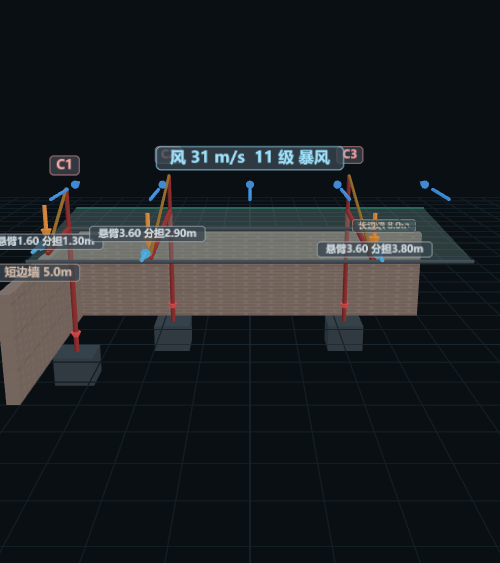
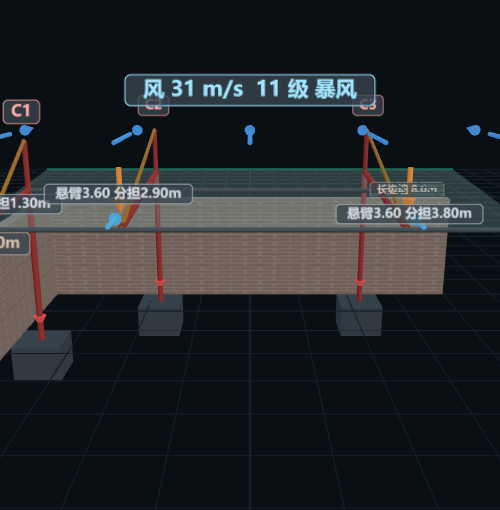
apks: 更新 tools/canopy-struct
Auto-synced by apk-github-sync at 2026-10-19 09:01:47

- apks/README.md
- apks/index.json
- apks/tools/canopy-struct/meta.json
- apks/tools/canopy-struct/src/assets/style.css
- apks/tools/canopy-struct/src/assets/view3d.js
- apks/tools/canopy-struct/src/tools/dbg3.js
- "apks/tools/canopy-struct/src/\346\210\252\345\233\276/A-1-\351\231\242\345\255\220\347\234\213\344\270\273\346\245\274.png"
- "apks/tools/canopy-struct/src/\346\210\252\345\233\276/A-2-\344\273\216\344\270\213\345\276\200\344\270\212\347\234\213.png"
- "apks/tools/canopy-struct/src/\346\210\252\345\233\276/A-3-\344\277\257\350\247\206.png"
- "apks/tools/canopy-struct/src/\346\210\252\345\233\276/A-4-\344\276\247\345\211\226.png"
- "apks/tools/canopy-struct/src/\346\210\252\345\233\276/blender-A.png"
- "apks/tools/canopy-struct/src/\346\210\252\345\233\276/gl-\344\276\247\350\247\206.png"
- "apks/tools/canopy-struct/src/\346\210\252\345\233\276/gl-\344\277\257\350\247\206.png"
- "apks/tools/canopy-struct/src/\346\210\252\345\233\276/gl-\345\217\230\345\275\242\346\224\276\345\244\247100.png"
- "apks/tools/canopy-struct/src/\346\210\252\345\233\276/gl-\346\255\243\350\247\206.png"
- "apks/tools/canopy-struct/src/\346\210\252\345\233\276/gl-\351\273\230\350\256\244\350\247\206\350\247\222.png"

Changed region(s): [[0.0, 0.1176, 1.0, 0.7647], [0.93, 0.2353, 1.0, 0.2941]]

diff --git a/apks/tools/canopy-struct/src/assets/view3d.js b/apks/tools/canopy-struct/src/assets/view3d.js
@@ -102,9 +102,14 @@ const V3 = (function () {
 
   function resize() {
     if (!ok) return;
-    const w = host.clientWidth || 320, h = host.clientHeight || 300;
-    renderer.setSize(w, h, false);
-    camera.aspect = w / h; camera.updateProjectionMatrix();
+    const W = host.clientWidth || 320, H = host.clientHeight || 300;
+    // 竖屏时不要把画布拉成一根长条：限高 ≈ 1.02×宽，竖直居中
+    const h = Math.max(200, Math.min(H, W * 1.02));
+    canvas.style.width = W + 'px';
+    canvas.style.height = h + 'px';
+    canvas.style.top = Math.max(0, (H - h) / 2) + 'px';
+    renderer.setSize(W, h, false);
+    camera.aspect = W / h; camera.updateProjectionMatrix();
     draw();
   }
 
@@ -146,6 +151,19 @@ const V3 = (function () {
   function frontView() { cam = { az: 0.0001, pol: 1.30, dist: 11.5, tx: 4, ty: 1.4, tz: 2.0 }; draw(); }
   function endView() { cam = { az: 1.5708, pol: 1.35, dist: 11, tx: 1.2, ty: 1.4, tz: 2.0 }; draw(); }
 
+  function fitDist() {
+    // 用当前模型的实际包围球算"刚好装得下"的距离
+    let R = 6;
+    try {
+      const box = new THREE.Box3().setFromObject(scene);
+      const sph = box.getBoundingSphere(new THREE.Sphere());
+      R = Math.max(2.5, sph.radius);
+    } catch (e) { }
+    const halfY = camera.fov * Math.PI / 360;
+    const halfX = Math.atan(Math.tan(halfY) * Math.max(camera.aspect, 0.2));
+    const half = Math.min(halfY, halfX);
+    return R / Math.sin(half) * 0.92;
+  }
   function draw() {
     if (!ok) return;
     const t = new THREE.Vector3(cam.tx, cam.ty, cam.tz);
@@ -153,10 +171,10 @@ const V3 = (function () {
       t.x + cam.dist * Math.sin(cam.pol) * Math.sin(cam.az),
       t.y + cam.dist * Math.cos(cam.pol),
       t.z + cam.dist * Math.sin(cam.pol) * Math.cos(cam.az));
-    // 竖屏时把相机拉远一点，否则模型会顶出屏幕
-    const asp = (host.clientWidth || 1) / Math.max(1, host.clientHeight || 1);
-    const fitK = Math.max(1, Math.min(1.38, 1.18 / Math.max(asp, 0.34)));
-    camera.position.sub(t).multiplyScalar(fitK).add(t);
+    // 远程只有"不超过装得下的距离"时才拉远，绝不缩小到看不见
+    const fd = fitDist();
+    const d = Math.min(cam.dist, fd);
+    camera.position.sub(t).multiplyScalar(d / Math.max(cam.dist, 0.001)).add(t);
     camera.lookAt(t);
     renderer.render(scene, camera);
   }

diff --git a/apks/tools/canopy-struct/src/tools/dbg3.js b/apks/tools/canopy-struct/src/tools/dbg3.js
@@ -6,7 +6,7 @@ const sleep = ms => new Promise(r => setTimeout(r, ms));
 (async () => {
   const c = spawn(CHROME, ['--headless=new', `--remote-debugging-port=${PORT}`, '--no-sandbox',
     '--allow-file-access-from-files', '--no-first-run',
-    `--user-data-dir=${path.join(require('os').tmpdir(), 'csd' + Date.now())}`, '--window-size=420,860', url], { stdio: 'ignore' });
+    `--user-data-dir=${path.join(require('os').tmpdir(), 'csd' + Date.now())}`, '--window-size=400,880', url], { stdio: 'ignore' });
   let pg = null;
   for (let i = 0; i < 60; i++) { await sleep(250); try { pg = (JSON.parse(await get('/json/list')) || []).find(t => t.type === 'page' && t.webSocketDebuggerUrl); } catch (e) { } if (pg) break; }
   const ws = new WebSocket(pg.webSocketDebuggerUrl); let id = 0; const pend = {};

diff --git a/apks/tools/canopy-struct/src/assets/style.css b/apks/tools/canopy-struct/src/assets/style.css
@@ -105,7 +105,7 @@ td.num{text-align:right;font-variant-numeric:tabular-nums}
 tr.pick td{background:#10241F}
 
 /* ---------- 3D ---------- */
-#cv3{position:absolute;inset:0;width:100%;height:100%;display:block;touch-action:none}
+#cv3{position:absolute;left:0;top:0;width:100%;height:100%;display:block;touch-action:none}
 .ov{position:absolute;z-index:3;font-size:11px;color:var(--dim)}
 #hint3{position:absolute;left:9px;bottom:9px;background:rgba(11,16,20,.72);padding:4px 9px;
   border-radius:7px;border:1px solid var(--line);z-index:4}

diff --git a/apks/README.md b/apks/README.md
@@ -1,7 +1,7 @@
 # Pi 开发的 APK 软件包
 
 本目录由 [`apk-github-sync`](../skills/apk-github-sync/) 自动从本机镜像同步。
-最后同步：**2026-10-19 08:08:38**　|　共 **15** 个应用　|　APK 合计 **48.0 MB**
+最后同步：**2026-10-19 09:01:44**　|　共 **15** 个应用　|　APK 合计 **48.0 MB**
 
 每个应用一个子目录，里面有编译好的 APK 和对应的源代码：
 
